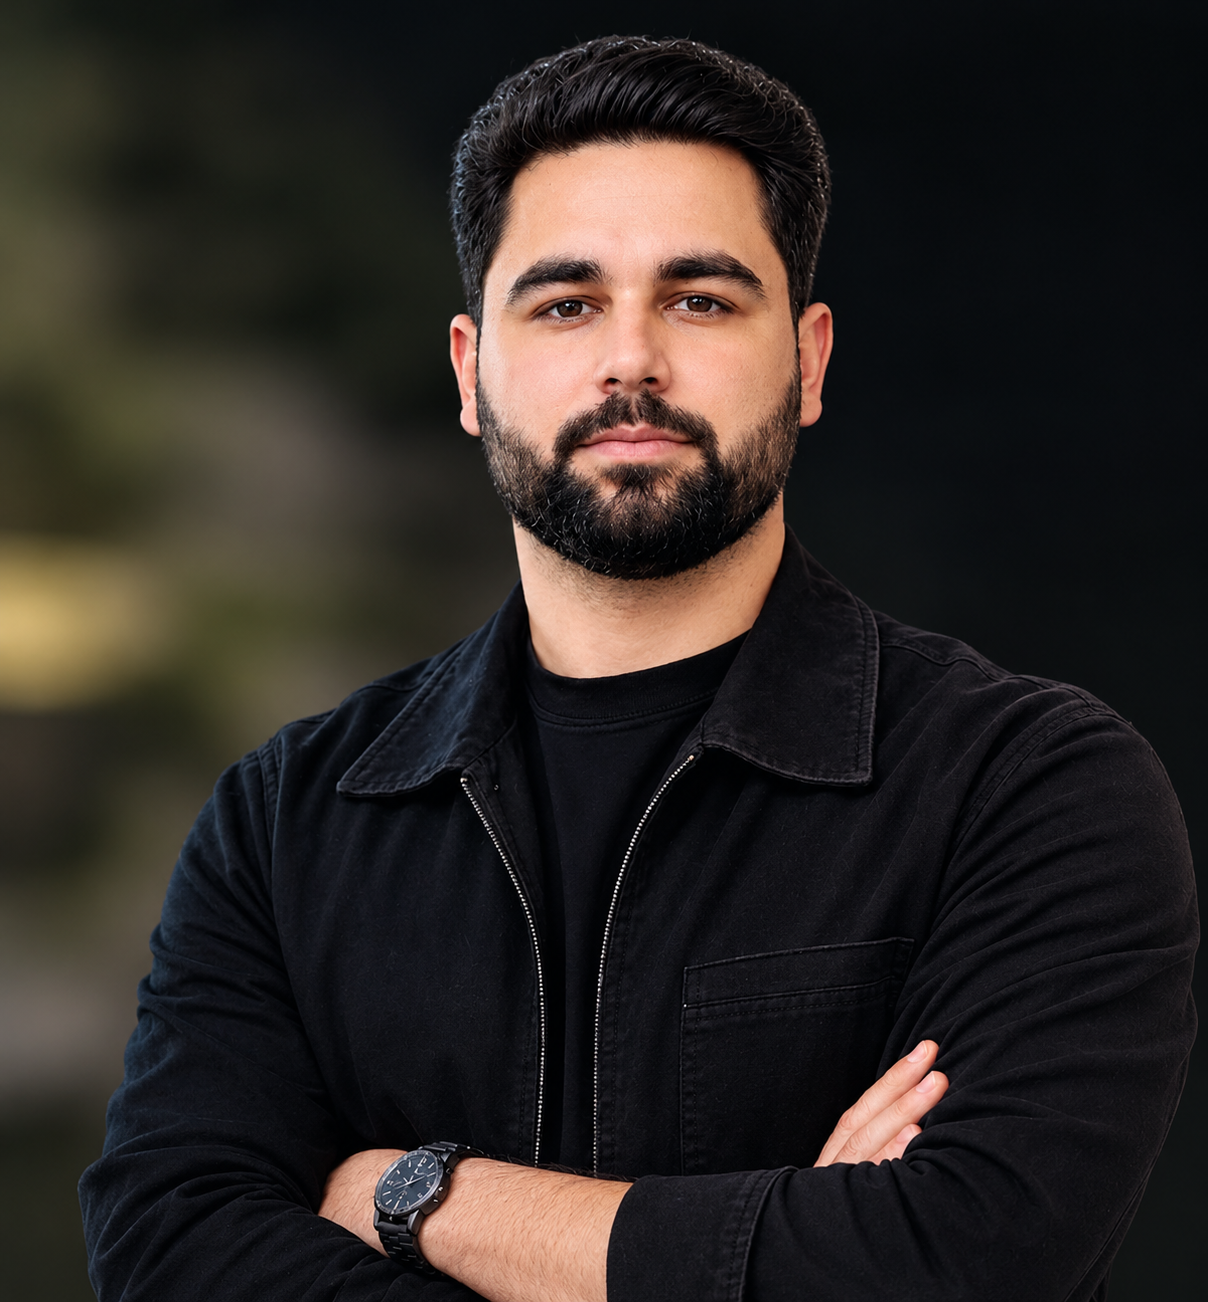
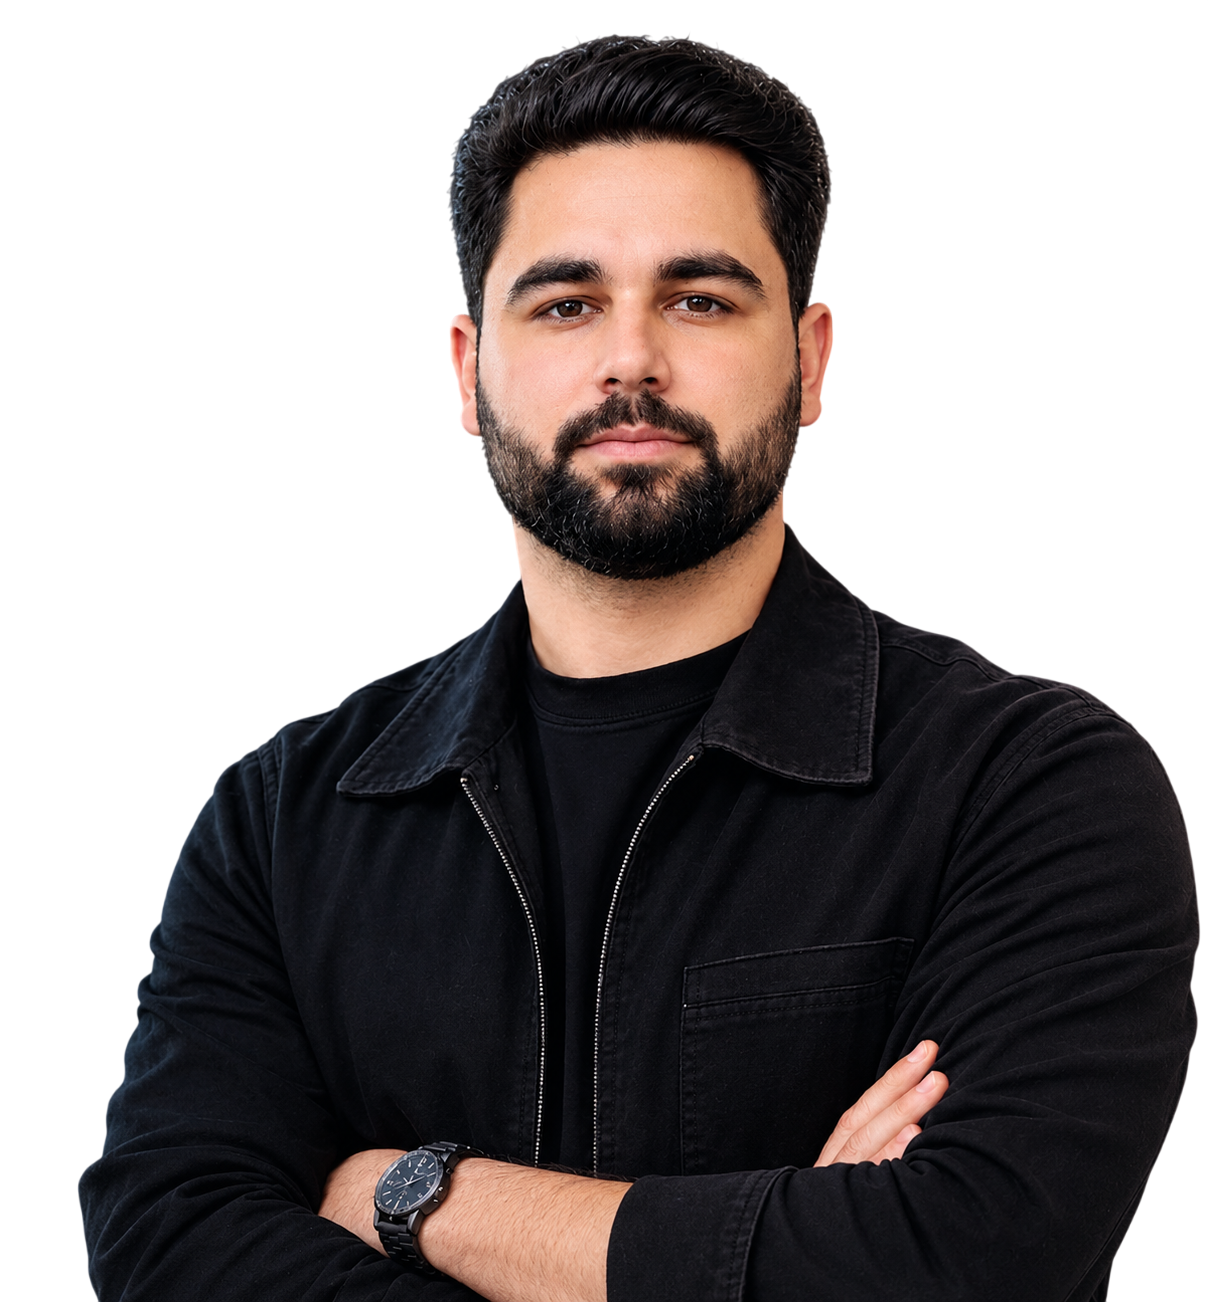
UI updation

diff --git a/src/components/Poster.jsx b/src/components/Poster.jsx
@@ -5,23 +5,6 @@ import { prefersReducedMotion } from '../hooks'
 
 const roles = ['Senior graphic designer', 'Digital marketing expert', 'Brand and social media creator']
 
-const credits = [
-  ['A Flim By', 'Muhammad Bilal'],
-  ['Staring', 'Muhammad Bilal'],
-  ['Graphic design', 'Muhammad Bilal'],
-  ['Edited By', 'Muhammad Bilal'],
-  ['Cinematography By', 'Muhammad Bilal'],
-  ['Written By', 'Muhammad Bilal'],
-  ['Marketing By', 'Muhammad Bilal'],
-  ['Filmed in', 'Sahiwal, Punjab, pakistan'],
-
-
-  // ['Flimed in', 'Muhammad Bilal'],
-  // ['Digital marketing', 'Muhammad Bilal'],
-  // ['Bilingual layouts', 'Muhammad Bilal'],
-  // ['Video editing', 'Muhammad Bilal'],
-]
-
 function Poster() {
   const [i, setI] = useState(0)
   const flare = useRef(null)
@@ -71,19 +54,19 @@ function Poster() {
           </h1>
 
           <p className="poster__star poster__in" style={{ '--d': '0.35s' }}>
-            <span>starring as</span>
             <b key={i} className="poster__role">{roles[i]}</b>
           </p>
 
           <div className="poster__foot poster__in" style={{ '--d': '0.6s' }}>
-            <dl className="poster__credits">
-              {credits.map(([k, v]) => (
-                <div key={k}>
-                  <dt>{k}</dt>
-                  <dd>{v}</dd>
-                </div>
-              ))}
-            </dl>
+            <div className="poster__intro">
+              <p>
+                Hi, I'm Muhammad Bilal, a graphic designer and digital marketer based in Jeddah.
+              </p>
+              <p>
+                For over 7 years I have handled the whole job for brands: the design, the video
+                edits, the copywriting and the campaign.
+              </p>
+            </div>
           </div>
         </div>
         <figure className="poster__card poster__in" style={{ '--d': '0.3s' }}>

diff --git a/src/components/About.jsx b/src/components/About.jsx
@@ -2,13 +2,15 @@ import { useEffect, useRef, useState } from 'react'
 import './About.css'
 import { prefersReducedMotion, useInView, useTyped } from '../hooks'
 
-const script = `Hi, I'm Muhammad Bilal, a graphic designer and digital marketer based in Jeddah.
+const script = `Muhammad Bilal | Graphic Designer, Digital Marketing Specialist, AI Videoeditor/Filmmaker Content Writer | Jeddah, Saudi Arabia
 
-For over 7 years I have handled the whole job for brands: the design, the video edits, the copywriting and the campaign.
+With over 7 years of industry experience, I provide end-to-end creative and marketing solutions for brands — encompassing brand identity design, video editing, copywriting, and integrated campaign management.
 
-So a client works with one person instead of four, and the idea stays consistent from the first draft to the final post.
+My approach enables clients to partner with a single, dedicated professional rather than coordinating with multiple teams. This ensures strategic clarity, creative consistency, and premium quality — from initial concept to final delivery.
 
-I work in English, Urdu and Arabic.`
+Fluent in English, Urdu, and Arabic, I help brands communicate effectively with diverse audiences and build a strong, lasting presence in the Saudi market and beyond.
+
+Let's elevate your brand together.`
 
 // n = number that counts up when the panel scrolls into view
 const stats = [

diff --git a/src/components/Poster.css b/src/components/Poster.css
@@ -171,6 +171,23 @@
   color: var(--text);
 }
 
+.poster__intro {
+  max-width: 520px;
+  padding-left: 20px;
+  border-left: 1px solid var(--gold);
+}
+
+.poster__intro p {
+  font-size: clamp(14px, 1.15vw, 17px);
+  line-height: 1.75;
+  color: var(--text);
+}
+
+.poster__intro p + p {
+  margin-top: 12px;
+  color: var(--mute);
+}
+
 .poster__credits {
   display: grid;
   grid-template-columns: repeat(2, auto);
